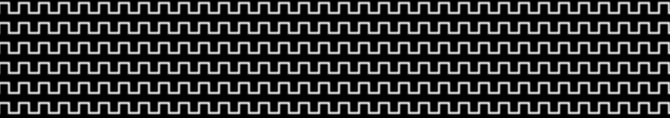
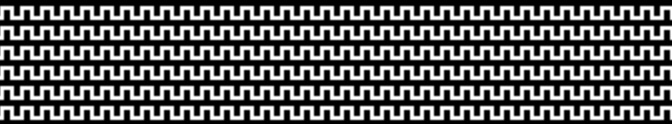
FC introduce legend in charts remove <ChartImage>

diff --git a/src/foodComparison/foodCompare/FoodCompare.tsx b/src/foodComparison/foodCompare/FoodCompare.tsx
@@ -26,13 +26,15 @@ import items from "../items.json";
 import Nutrient from "../nutrient/Nutrient";
 import PopoverStickOnHover from "../popoverStickOnHover/PopoverStickOnHover";
 import { ReactComponent as Icon } from "../assets/information-button.svg";
-import PeriodicElement from "../periodicElement/PeriodicElement";
-import ChartImage from "../chartImage/ChartImage";
 import FoodImage from "../foodImage/FoodImage";
-
 
 import "../css/tools.scss";
 import "./FoodCompare.scss";
+
+export const LEGEND_CLASSES = [
+  "square-border-bottom",
+  "triangle-border-bottom",
+];
 
 export interface FoodAndNutrients extends FoodMainAttrs {
   minerals: FoodNutrient[];
@@ -108,25 +110,27 @@ const FoodCompare = () => {
         }}
       />
 
-      <ChartImage food_name={!isEmpty(foods) && foods[0].food_name || "lentil"} />
-      {/* <FoodImage food_name="lentil" /> */}
-      {/* <div style={{maxWidth: "150px"}}>
-      <PeriodicElement />
-      </div> */}
       {isEmpty(foods) && <p>choose some food </p>}
       {!isEmpty(foods) && (
         <>
           <div className="foodList">
             <FoodLegend />
-            {foods.map((food: FoodMainAttrs) => (
+            {foods.map((food: FoodMainAttrs, index: number) => (
               <PieChart
                 key={food.food_name}
                 values={getPieChartData(food)}
                 width={960}
                 height={500}
                 name={food.food_name}
+                legend={
+                  <div
+                    className={LEGEND_CLASSES[index]}
+                    style={{ width: "15%" }}
+                  />
+                }
               >
-                <PopOver {...food} />
+                <FoodImage food_name={food.food_name} className="foodCompare__chartImage" />
+                {/* <PopOver {...food} /> */}
               </PieChart>
             ))}
           </div>

diff --git a/src/foodComparison/foodCompare/FoodCompare.scss b/src/foodComparison/foodCompare/FoodCompare.scss
@@ -1,3 +1,13 @@
+.foodCompare {
+  &__chartImage {
+    position: absolute;
+    width: 29%;
+    left: 35.5%;
+    top: 22.5%;
+    clip-path: circle(42% at 50% 50%);
+  }
+}
+
 .foodList {
   display: flex;
 }
@@ -9,4 +19,26 @@
     width: 100%;
     height: 100%;
   }
+}
+
+%pos {
+  margin: 0 auto;
+  border: solid 10px;
+  margin-top: -10px;
+}
+
+.triangle-border-bottom {
+  border-image-slice: 0 0 15 0;
+  border-image-width: 0 0 5px 0;
+  border-image-repeat: repeat repeat;
+  border-image-source: url("../assets/patterns/black-triangle-bg.jpg");
+  @extend %pos;
+}
+
+.square-border-bottom {
+  border-image-slice: 0 0 23 0;
+  border-image-width: 0 0 6px 0;
+  border-image-repeat: repeat repeat;
+  border-image-source: url("../assets/patterns/black-square-bg.jpg");
+  @extend %pos;
 }

diff --git a/src/foodComparison/pieChart/PieChart.tsx b/src/foodComparison/pieChart/PieChart.tsx
@@ -10,6 +10,7 @@ interface Props {
   height: number;
   name: string;
   children?: React.ReactNode;
+  legend?: React.ReactNode;
 }
 
 const enterClockwise = {
@@ -26,7 +27,7 @@ const PieChart = (props: Props) => {
   );
   const ref = useRef(null);
 
-  const { values, width, height, name, children } = props;
+  const { values, width, height, name, children, legend } = props;
   const radius = getRadius(width, height);
   const INNER_RADIUS = radius - 120;
   const OUTER_RADIUS = radius - 10;
@@ -86,10 +87,10 @@ const PieChart = (props: Props) => {
 
   return (
     <div className="pieChart">
-      <p>{name}</p>
       <div ref={ref} className="pieChart__container">
         {children}
       </div>
+      {legend && legend}
     </div>
   );
 };
